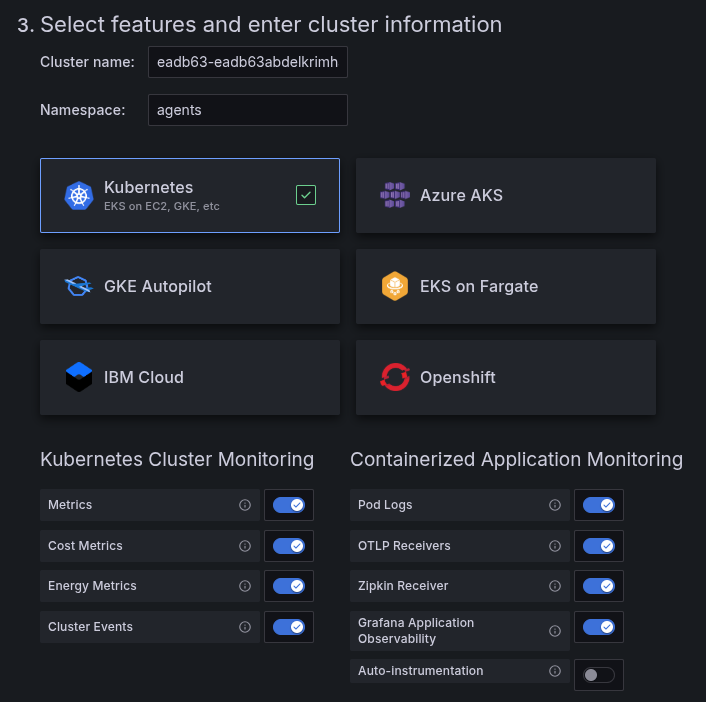
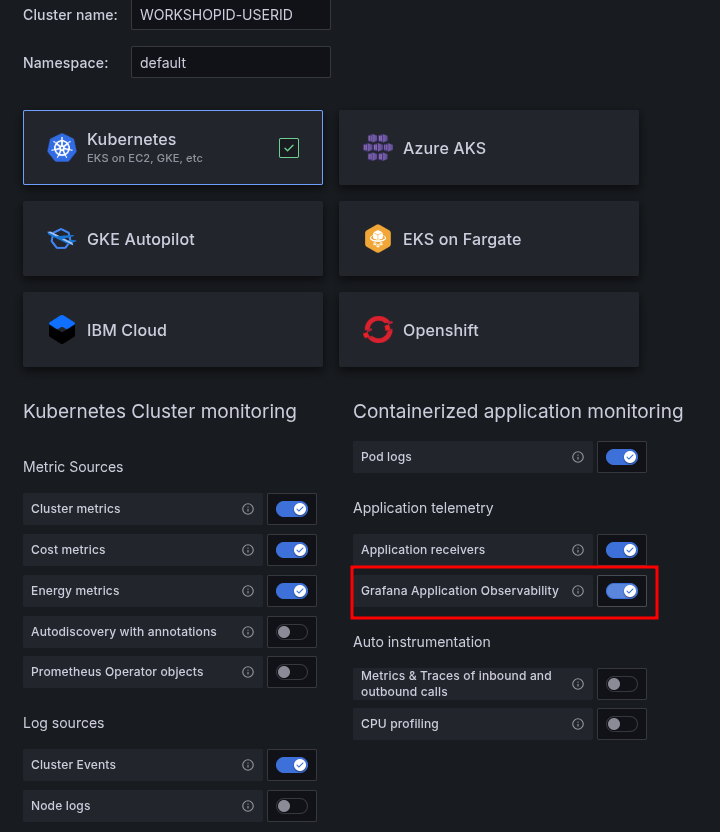
update alloy endpoint + lab3 partial

diff --git a/README.md b/README.md
@@ -4,7 +4,8 @@
   - [Prerequisites](#prerequisites)
   - [LAB 01 : Deploy the Agent Grafana Alloy \& Use Kubernetes Observability](#lab-01--deploy-the-agent-grafana-alloy--use-kubernetes-observability)
   - [LAB 02 : Deploy Microservices \& send data](#lab-02--deploy-microservices--send-data)
-  - [LAB 03 : Finding root cause with Grafana Cloud](#lab-03--finding-root-cause-with-grafana-cloud)
+  - [LAB 03 : Troubleshooting issues with Grafana Cloud O11y solutions](#lab-03--troubleshooting-issues-with-grafana-cloud-o11y-solutions)
+    - [LAB 3.1 : Explore the healthy instance](#lab-31--explore-the-healthy-instance)
 - [Appendix](#appendix)
 
 
@@ -24,46 +25,48 @@ Make sure you have your credentials to access webtty & grafana cloud stack
 
 3. In Grafana Cloud UI, Activate application observability
 
-![alt text](/graphics/06.png)
+![alt text](graphics/06.png)
 
 4. Navigate to Infrastructure -> Kubernetes.
 
-![alt text](/graphics/01.png)
+![alt text](graphics/01.png)
 
 5. Click on Start Sending Data
 6. Click on Install
 7. Fill in cluster information
 
-to get cluster name in webtty
+To get cluster name in webtty
 
 ```
 kubectl config view --minify -o jsonpath='{.clusters[0].name}' && echo
 ```
 
+```
 Cluster name : WORKSHOPID-USERID
-Namespace : agents
-Tick option : Grafana Application Observability
+Namespace : default
+Tick option "Grafana Application Observability"
+```
 
-![alt text](/graphics/02.png)
+![alt text](graphics/02.png)
 
 1. Name the token ```k8stelemetry``` Cick on create new token
 
-![alt text](/graphics/03.png)
+![alt text](graphics/03.png)
 
 8. Copy Helm command and run in webtty
 
-![alt text](/graphics/04.png)
+![alt text](graphics/04.png)
 
 9. Check if agent pods are running in webtty
 
 ```sh
-kubectl get pods -n agents
+kubectl get pods
 ```
 
 expected results
 
 ```
-$ kubectl get pods -n agents
+$ kubectl get pods
 
 NAME                                                         READY   STATUS    RESTARTS   AGE
 grafana-k8s-monitoring-alloy-0                               2/2     Running   0          5m32s
@@ -90,7 +93,7 @@ grafana-k8s-monitoring-prometheus-node-exporter-w84vm        1/1     Running   0
 
 Architecture of microservices apps
 
-![arch](graphics/architecture.png))
+![arch](graphics/architecture.png)
 
 1. In the web tty, deploy all services
 
@@ -113,10 +116,53 @@ kubectl -n apps apply -f https://raw.githubusercontent.com/grafana/k8s-appo11y-w
 
 2. Explore Application Observability
 
-![alt text](/graphics/07.png)
+![alt text](graphics/07.png)
 
 
-## LAB 03 : Finding root cause with Grafana Cloud
+## LAB 03 : Troubleshooting issues with Grafana Cloud O11y solutions
+
+In this workshop, we will use different Grafana Cloud products to find and analyse issues with our application. We have prepared for you an online store application with different microservices, running in K8S, and already configured to send all data to Grafana Cloud. You will use three different instances:
+
+- Grafana: https://WORKSHOPID_HEALTHY.grafana.net: is a healthy instance where there’s no problems in the application. You can use it to see how the different services behave. The web application is accessible here: https://WORKSHOPID_HEALTHY.field-eng-demo.grafana.net/ 
+
+- Grafana: https://WORKSHOPID_ERROR.grafana.net/ : is an instance where several issues are happening. You will use FE O11y, App O11y and other services to troubleshoot what’s going on. The web application is accessible here: https://WORKSHOPID_ERROR.field-eng-demo.grafana.net/ 
+
+- Grafana: https://WORKSHOPID_ASSERTS.grafana.net is an instance where Asserts has been configured and an incident happened in the last 24 hours. You will get a feel about how Asserts can help you in troubleshooting. The web application is accessible here: 
+
+Your instructor provided you with your personal accounts to access each of these 3 instances.
+
+### LAB 3.1 : Explore the healthy instance
+
+Connect to the healthy instance and get familiarized with the environment and application. 
+
+[https://WORKSHOPID_HEALTHY.grafana.net](https://WORKSHOPID_HEALTHY.grafana.net)
+
+
+Access the website and click around. Add products to cart, checkout, see recommendations, etc. The website should work correctly, and react fast.
+
+![alt text](graphics/08.png)
+
+Go to Grafana, Frontend Observability and review the KPI. The web vitals should be generally good. The number of errors is 0 or low.  
+
+![alt text](graphics/09.png)
+
+Navigate to the error tab, and click to see the details of any errors that are happening. This should be an isolated error which can happen even if the application is healthy. We have introduced a very small number of random errors.
+
+![alt text](graphics/10.png)
+
+Go to Application O11y and get an overview of the services. See if there are any errors or slowness. Everything should be good. 
+
+![alt text](graphics/11.png)
+
+Navigate to the service Map and see how these services are connected to each other.
+
+![alt text](graphics/12.png)
+
+Now come back to services, click on one service, and check that all the data is correctly collected. See the metrics, traces and logs.
+
+Finally, go to the SLO Performance page, and see the different KPI. Once again, everything should be green.
+
+![alt text](graphics/13.png)
 
 # Appendix
 
